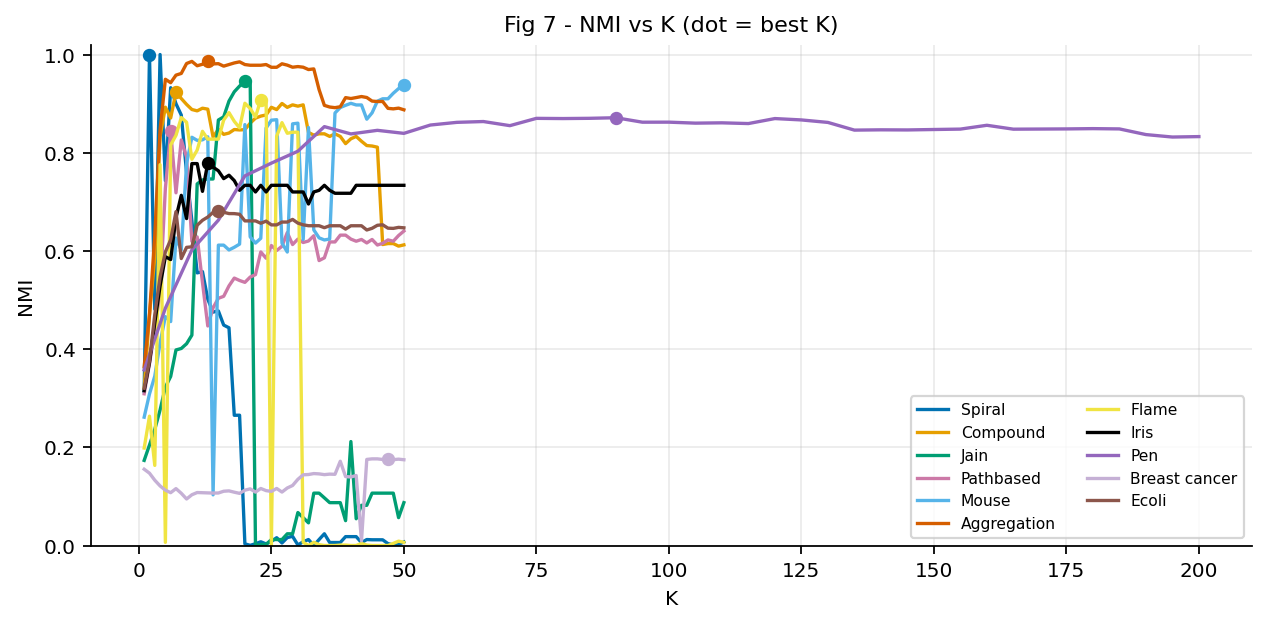
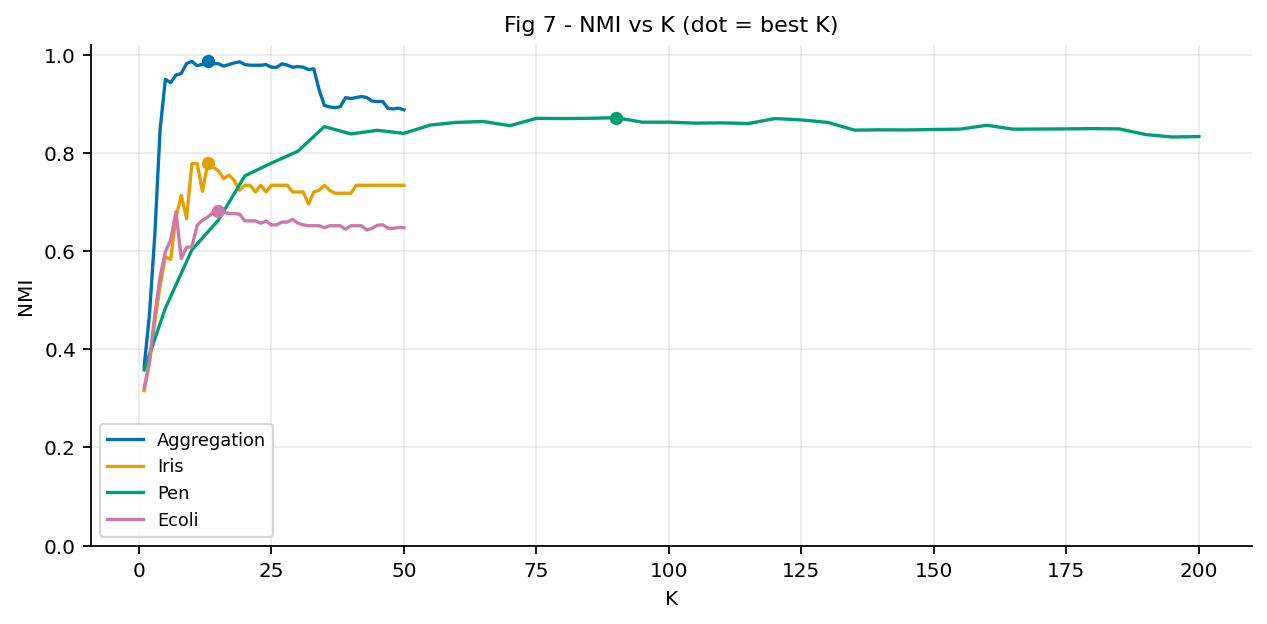
graph changed

Changed region(s): [[0.0616, 0.0609, 0.8927, 0.883], [0.708, 0.609, 0.985, 0.883], [0.8927, 0.2131, 0.9542, 0.2436]]

diff --git a/visualization/plot_curves.py b/visualization/plot_curves.py
@@ -28,12 +28,17 @@ def main():
         ax[1].plot(r["ks"], r["k_total"], "o-", c=DENMUNE_C)
         ax[1].set(title=f"(b) time vs K - {r['title']}", xlabel="K", ylabel="seconds")
         save(fig, "fig06_speed")
-    if raw_exists("k_sweep"):
-        sw = load_raw("k_sweep")
-        fig, ax = plt.subplots(figsize=(8, 4))
-        for i, (n, r) in enumerate(sw.items()):
-            ax.plot(r["df"].K, r["df"].NMI, c=colour(i), label=r["title"])
-            ax.plot(r["best_k"], r["df"].NMI.max(), "o", c=colour(i), ms=5)
+        if raw_exists("k_sweep"):
+            sw = load_raw("k_sweep")
+            KEEP = ["ecoli", "iris", "aggregation", "pen"]
+            fig, ax = plt.subplots(figsize=(8, 4))
+            i = 0
+            for n, r in sw.items():
+                if not any(k in n.lower() or k in r["title"].lower() for k in KEEP):
+                    continue
+                ax.plot(r["df"].K, r["df"].NMI, c=colour(i), label=r["title"])
+                ax.plot(r["best_k"], r["df"].NMI.max(), "o", c=colour(i), ms=5)
+                i += 1
         ax.set(title="Fig 7 - NMI vs K (dot = best K)", xlabel="K", ylabel="NMI", ylim=(0, 1.02))
-        ax.legend(fontsize=7, ncol=2)
+        ax.legend(fontsize=8)
         save(fig, "fig07_k_stability_nmi")
